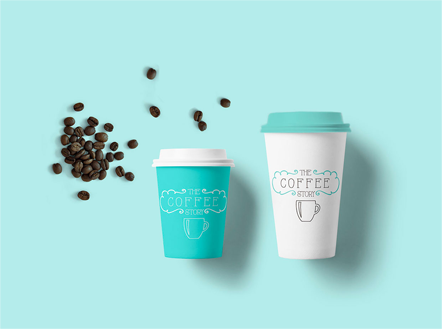
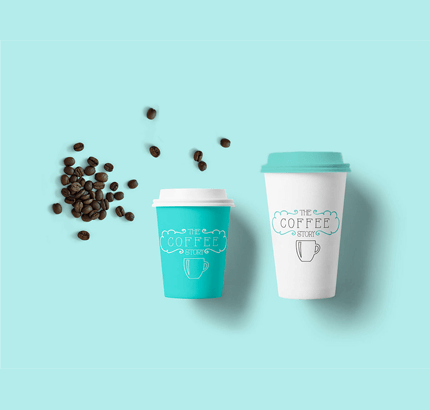
finished portfolio section

Changed region(s): [[0.0907, 0.2736, 0.907, 0.8815], [0.3023, 0.1824, 0.393, 0.3951]]

diff --git a/css/style.css b/css/style.css
@@ -17,10 +17,20 @@ img{
     height:auto;
 }
 .container{
-    max-width:1200px;
     display:flex;
+    justify-content: center;
+    align-items: center;
+    flex-wrap: wrap;
+    flex-direction: row;
+    max-width:1200px;
     margin:0 auto;
-    justify-content: center;;
+}
+@media(min-width:500px) and (max-width:900px){
+    .container{
+        flex-direction:row;
+        align-items: center;
+        justify-content: center;
+    }
 }
 
 
@@ -69,6 +79,16 @@ img{
     right: 0;
     bottom:-.5em
 }
+.about-box h4{
+    text-transform: uppercase;
+}
+.about-box hr{
+    border:1px solid #1769ff;
+    width: 20%;
+}
+.about-box p{
+    font-family: 'raleway',sans-serif;
+}
 /*typography media for mobile view */
 @media(max-width:900px){
     .title h1{
@@ -101,7 +121,6 @@ img{
     background-color: #f7f6f4;
     color:#1769ff;
 }
-
 /*buttons media for mobile view */
 @media(max-width:900px){
     .button{
@@ -236,11 +255,11 @@ header nav ul li a:focus{
     flex-basis:30%;
     padding:3em;
 }
+
 #about .container .about-box h4,
 #about .container .about-box p{
     transition: initial;
 }
-
 #about .container .about-box .icon{
     font-size: 2.5em;
     color:#1769ff;
@@ -252,25 +271,32 @@ header nav ul li a:focus{
     color:#fff;
     border-radius:5px
 }
-#about .container .about-box:hover .icon {
+#about .container .about-box:hover .icon{
     color:#fff
 }
+
 /* about media for mobile */
 @media(max-width:900px){
     #about{
         padding: 1em 0;
     }
-    #about .container{
-        flex-direction:column;
-        align-items: center;
-    }
     #about .container .about-box{
-        padding: 0 3em;
+        padding: 0 2em;
+        flex-basis: 100%;
+    }
+    #about  .container{
+        justify-content: center;
     }
 }
 @media(min-width:500px) and (max-width:900px){
     #about .container .about-box{
-        padding: 0 8em;
+        flex-basis:50%;
+        align-items: center;
+    }
+}
+@media(max-width:500px) {
+    #about .container .about-box{
+        padding: 0 1em;
     }
 }
 
@@ -278,4 +304,36 @@ header nav ul li a:focus{
 /* start portolio section ================*/
 #portfolio{
     text-align:center;
+    padding:4em 2em 7em;
+    background-color:#f7f6f4
+}
+#portfolio .container .port-gallery{
+    display: flex;
+    flex-basis: 32%;
+    max-height:410px;
+    text-align: center;
+    flex-direction:column
+}
+
+#portfolio .container .port-gallery img{
+    padding:1em;
+    width:100%;
+    /* object-position: top;
+    object-fit:cover; */
+}
+/* Media for mobile responsive */
+@media(max-width:900px){
+    #portfolio{
+        padding:2em 0;
+    }
+    #portfolio .container .port-gallery{
+        flex-basis: 100%;
+        padding:0 1em;
+    }
+}
+@media(min-width:500px) and (max-width:900px){
+    #portfolio .container .port-gallery{
+        flex-basis:50%
+    }
+   
 }

diff --git a/index.html b/index.html
@@ -61,6 +61,7 @@
                     <!-- <img src="images/icon1.png" alt="#"> -->
                     <i class="fas fa-fill-drip icon"></i>
                     <h4>web design</h4>
+                    <hr>
                     <p>Well we're movin' on up to the east side. To a deluxe apartment in the sky.</p>
                 </div>
 
@@ -69,6 +70,7 @@
                     <!-- <img src="images/icon2.png" alt="#"> -->
                     <i class="fab fa-sketch icon"></i>
                     <h4>mobile app</h4>
+                    <hr>
                     <p>Tracking immunizations has never been easier or more secure...</p>
                 </div>
 
@@ -77,6 +79,7 @@
                     <!-- <img src="images/icon3.png" alt="#"> -->
                     <i class="fas fa-magic icon"></i>
                     <h4>branding</h4>
+                    <hr>
                     <p>Well we're movin' on up to the east side. To a deluxe apartment in the sky.</p>
                 </div>
             </div>
@@ -120,7 +123,7 @@
     
                  <!-- gallery 6 -->
                  <div class="port-gallery">
-                    <img src="images/portfolio-5.png" alt="#">
+                    <img src="images/portfolio-6.png" alt="#">
                 </div>
             </div>
         </section>
